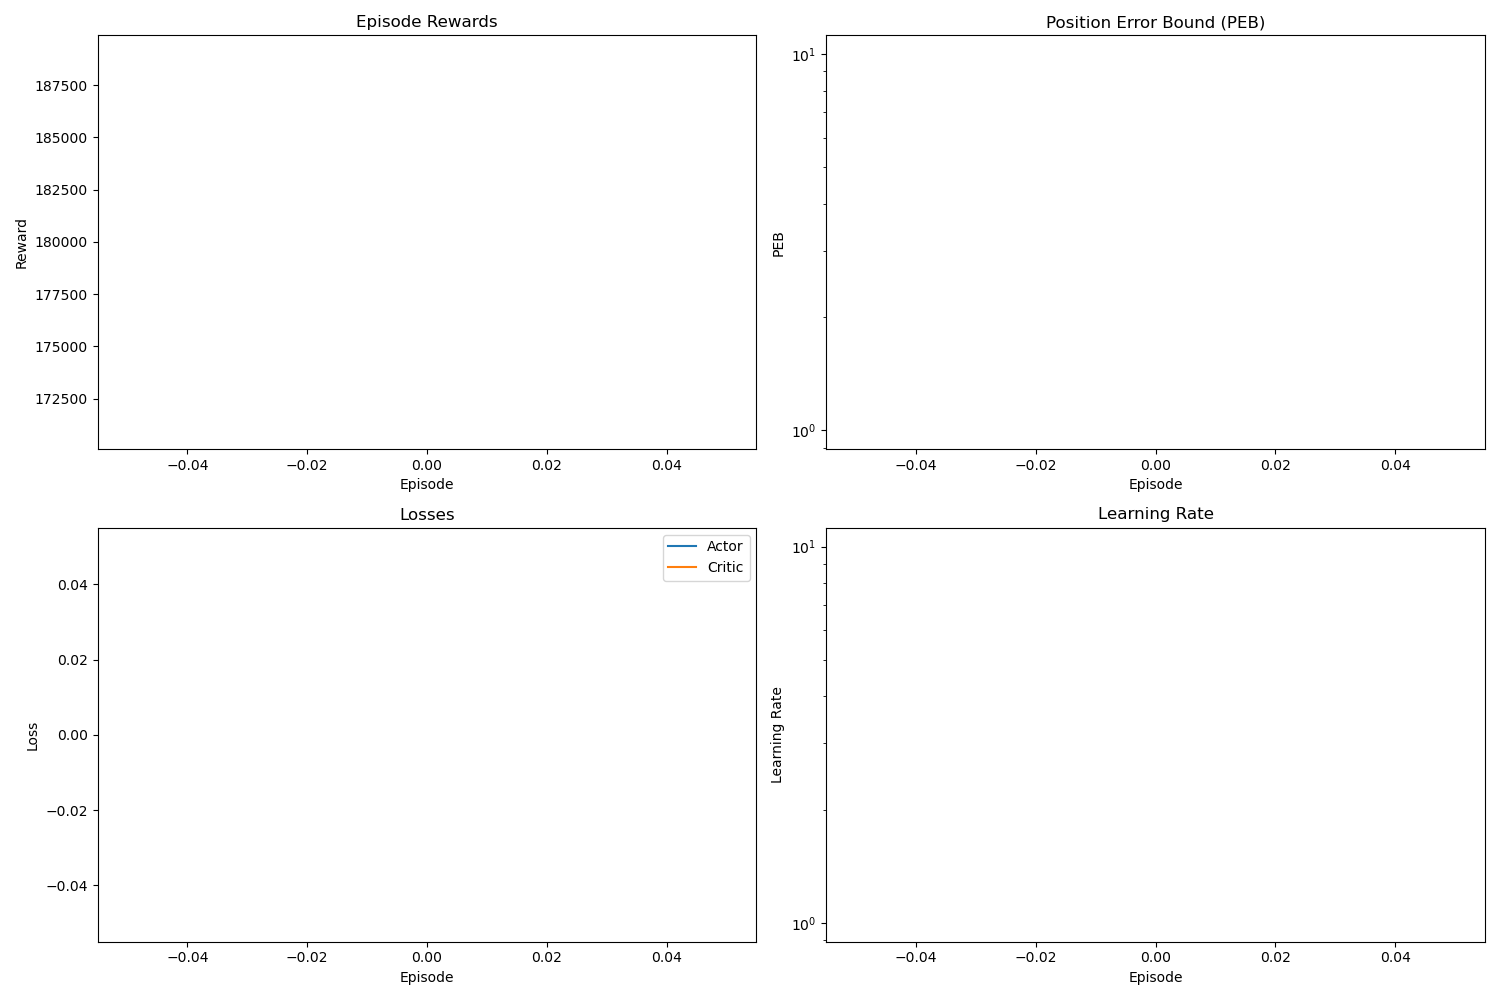
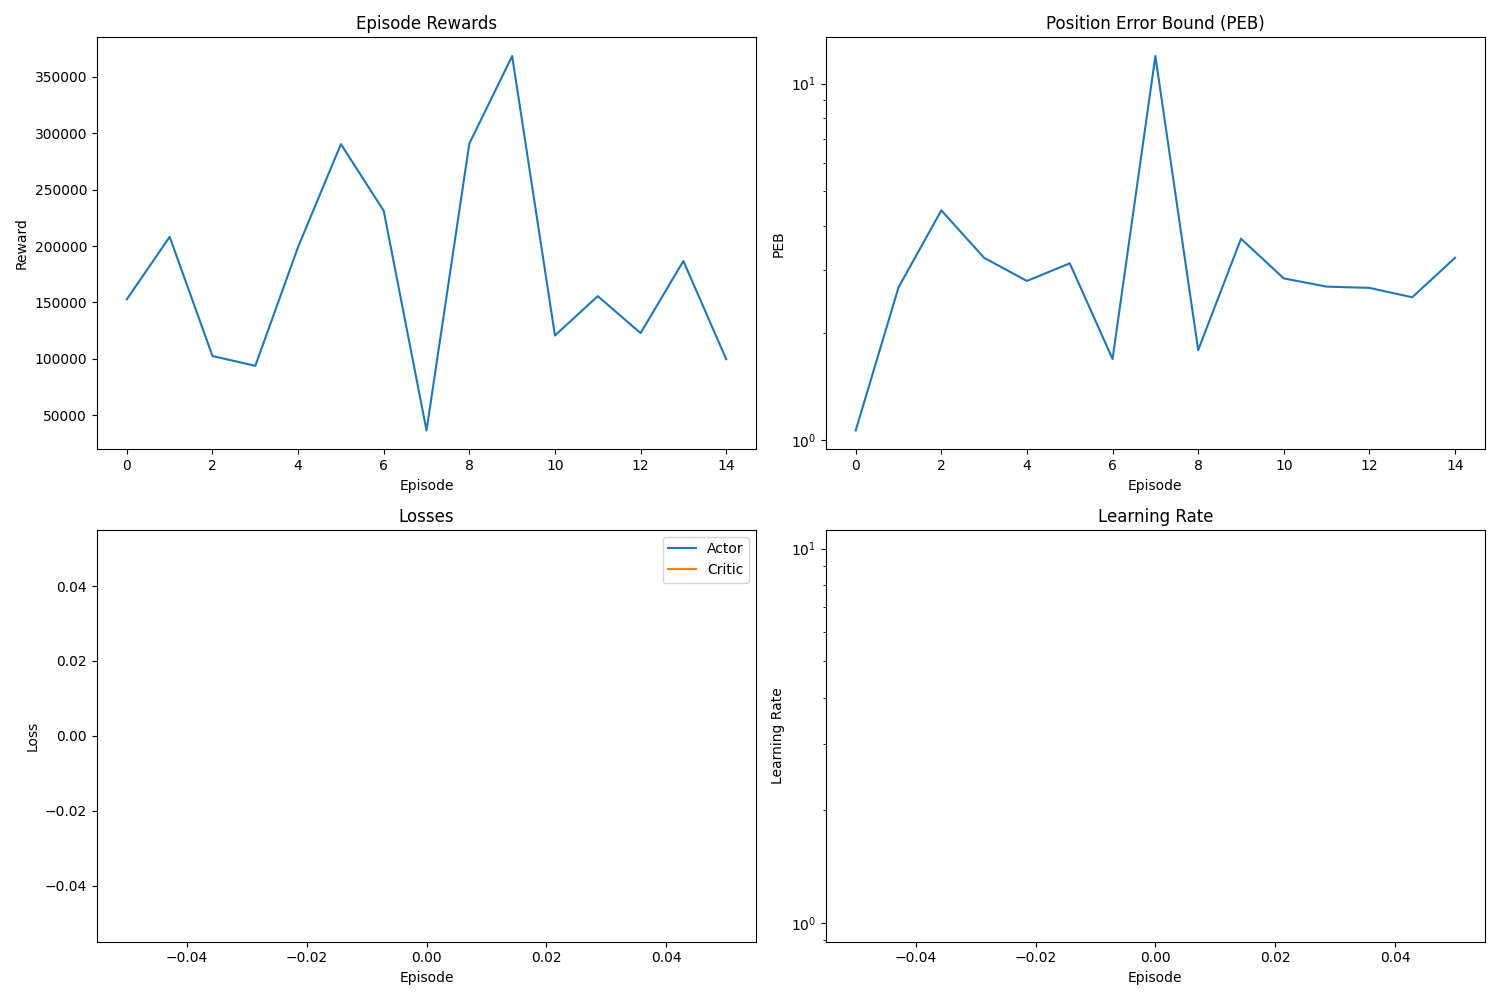
update

diff --git a/train_ris_isac.py b/train_ris_isac.py
@@ -28,33 +28,33 @@ class RISISACTrainer:
         print(f"Initializing FLDDPG with state_dim={state_dim}, action_dim={action_dim}")
         
         # Initialize DDPG agent with improved parameters
-        # self.agent = FLDDPG(
-        #     state_dim=state_dim,
-        #     action_dim=action_dim,
-        #     hidden_dims=[400, 300],
-        #     buffer_size=10000,  # 𝒟 = 10000
-        #     batch_size=16,  # 𝑇ₘₐₓ = 16
-        #     gamma=0.95,  # γ_b = 0.95
-        #     tau=0.00001,  # τ_tc and τ_ta = 0.00001
-        #     actor_lr=0.001,  # μ_ta = 0.001
-        #     critic_lr=0.001,  # μ_tc = 0.001
-        #     lr_decay_rate=0.00001,  # λ_tc and λ_ta = 0.00001
-        #     min_lr=1e-6,  # Not explicitly in the table, but might be useful
-        # )
-        
-        self.agent = DDPGagent(
-            num_states= state_dim,
-            num_actions= action_dim,
-            hidden_size_1= 400,
-            hidden_size_2= 300,
-            max_memory_size= 10000,
-            disc_fact= 0.95,
-            tau= 0.00001,
-            actor_learning_rate= 0.001,
-            critic_learning_rate= 0.001,
-            lr_decay= 0.00001,
-            min_lr= 1e-6
+        self.agent = FLDDPG(
+            state_dim=state_dim,
+            action_dim=action_dim,
+            hidden_dims=[512, 256],
+            buffer_size=10000,  # 𝒟 = 10000
+            batch_size=16,  # 𝑇ₘₐₓ = 16
+            gamma=0.95,  # γ_b = 0.95
+            tau=0.00001,  # τ_tc and τ_ta = 0.00001
+            actor_lr=0.001,  # μ_ta = 0.001
+            critic_lr=0.001,  # μ_tc = 0.001
+            lr_decay_rate=0.00001,  # λ_tc and λ_ta = 0.00001
+            min_lr=1e-6,  # Not explicitly in the table, but might be useful
         )
+        
+        # self.agent = DDPGagent(
+        #     num_states= state_dim,
+        #     num_actions= action_dim,
+        #     hidden_size_1= 400,
+        #     hidden_size_2= 300,
+        #     max_memory_size= 10000,
+        #     disc_fact= 0.95,
+        #     tau= 0.00001,
+        #     actor_learning_rate= 0.001,
+        #     critic_learning_rate= 0.001,
+        #     lr_decay= 0.00001,
+        #     min_lr= 1e-6
+        # )
 
         
         # Initialize metrics tracking
@@ -159,6 +159,9 @@ class RISISACTrainer:
         rate_values = [[] for _ in range(300)]
         power_values = [[] for _ in range(300)]
         avg_power = []
+        exp = 0
+        unexp = 0
+        exp_unexp_ration = []
         for episode in range(num_episodes):
             episode_start_time = time.time()
             # Reset environment
@@ -176,8 +179,8 @@ class RISISACTrainer:
             # Initialize episode precoder
             step_counter = 0
 
-            # if(episode!=0):
-            #     self.agent.decay_learning_rates()
+            if(episode!=0):
+                self.agent.decay_learning_rates()
 
             
             for step in range(max_steps):
@@ -185,8 +188,10 @@ class RISISACTrainer:
                 value = np.random.uniform(0,1)
                 if (value < epsilon_start):
                     explore = True
+                    exp+=1
                 else:
                     explore = False
+                    unexp+=1
                 # explore = False
 
                 step_counter = step_counter + 1
@@ -214,8 +219,8 @@ class RISISACTrainer:
                 done = bool(done)
                 
                 # Store transition and update networks
-                self.agent.replay_buffer.push(state, action, reward, next_state)
-                actor_loss, critic_loss = self.agent.update(16)
+                self.agent.replay_buffer.push(state, action, reward, next_state, done)
+                actor_loss, critic_loss = self.agent.update()
                 
                 # Track step metrics
                 episode_reward += reward
@@ -238,7 +243,8 @@ class RISISACTrainer:
             last_peb_in_episode = current_peb
             avg_rate = np.mean(rate_values[episode])
             avg_power = np.mean(power_values[episode])
-            
+            exp_unexp_ration.append(exp/unexp)
+
             # Normalize reward
             episode_reward = episode_reward/step_counter
 
@@ -252,7 +258,8 @@ class RISISACTrainer:
                     'avg_peb_values': [],
                     'last_peb_values': [],
                     'avg_rate': [],
-                    'avg_power': []
+                    'avg_power': [],
+                    'exp_unexp_ratio': []
                 })
             
             self.metrics['initial_peb_values'].append(initial_peb)
@@ -263,12 +270,12 @@ class RISISACTrainer:
             self.metrics['episode_rewards'].append(episode_reward)
             self.metrics['avg_rate'].append(avg_rate)
             self.metrics['avg_power'].append(avg_power)
-
+            self.metrics['exp_unexp_ratio'].append(exp/unexp)
             self.metrics['peb_values'].append(current_peb)  # For backward compatibility
             if episode_losses['actor']:
                 self.metrics['actor_losses'].append(np.mean(episode_losses['actor']))
                 self.metrics['critic_losses'].append(np.mean(episode_losses['critic']))
-            # self.metrics['learning_rates'].append(self.agent.current_actor_lr)
+            self.metrics['learning_rates'].append(self.agent.current_actor_lr)
             
             # Update best metrics and save checkpoints
             if episode_reward > self.best_metrics['reward']:
@@ -293,7 +300,7 @@ class RISISACTrainer:
                 print(f"Avg PEB: {avg_peb_in_episode:.6f}")
                 print(f"Last PEB: {last_peb_in_episode:.6f}")
                 print(f"Best PEB (all episodes): {self.best_metrics['peb']:.6f}")
-                # print(f"Learning Rate: {self.agent.get_current_actor_lr():.12f}")
+                print(f"Learning Rate: {self.agent.get_current_actor_lr():.12f}")
                 print(f"Buffer Size: {len(self.agent.replay_buffer)}")
                 print("-" * 50)
             
@@ -408,12 +415,12 @@ if __name__ == "__main__":
     plt.grid(True)
     plt.savefig(os.path.join(plt_folder,'power_per_episode'))
 
-    # plt.figure(figsize=(10,5))
-    # plt.plot(episodes, metrics['best_peb'])
-    # plt.title('Best PEB per episode')
-    # plt.xlabel('Episode')
-    # plt.ylabel('PEB')
-    # plt.grid(True)
-    # plt.savefig(os.path.join(plt_folder,'best_peb_per_episode'))
-    # plt.show()
+    plt.figure(figsize=(10,5))
+    plt.plot(episodes, metrics['exp_unexp_ratio'])
+    plt.title('exp and exploit ratio')
+    plt.xlabel('Episode')
+    plt.ylabel('ratio')
+    plt.grid(True)
+    plt.savefig(os.path.join(plt_folder,'exp_exploit_ratio'))
+    plt.show()
     trainer.close()

diff --git a/RISISAC_V2X_Sim.m b/RISISAC_V2X_Sim.m
@@ -128,7 +128,7 @@ classdef RISISAC_V2X_Sim < handle
             obj.initializeChannels();
             obj.initializephi();
             obj.calculate_pathloss();
-            obj.destination = [randi([0, 1000]), randi([0, 1000]), 0];
+            % obj.destination = [randi([0, 1000]), randi([0, 1000]), 0];
             obj.initializeVisualization();
             % obj.destination = [999, 999, 0];
             [H_Los,H_Los_3d] = generate_H_Los(obj, obj.H_bt, obj.Nt, obj.Nb);
@@ -761,9 +761,6 @@ classdef RISISAC_V2X_Sim < handle
             obj.initializeChannels();
             obj.initializephi();
             obj.calculate_pathloss();
-            % obj.destination = [randi([0, 1000]), randi([0, 1000]), 0];
-            % obj.initializeVisualization();
-            % obj.destination = [999, 999, 0];
             [H_Los, H_Los_3d] = generate_H_Los(obj, obj.H_bt, obj.Nt, obj.Nb);
             [H_NLos, H_NLos_3d] = generate_H_NLoS(obj, obj.H_rt, obj.H_br, obj.Nt, obj.Nr, obj.Nb, obj.phi);
             obj.H_combined = obj.compute_Heff(H_Los, H_NLos);
@@ -772,9 +769,6 @@ classdef RISISAC_V2X_Sim < handle
             obj.gamma_c = obj.computeSNR();
             obj.rate = obj.getrate();
             obj.peb = obj.calculatePerformanceMetrics(obj.Wx, H_Los_3d, H_NLos_3d);
-            % obj.calculated_values();
-            % obj.destination = [randi([0, 1000]), randi([0, 1000]), 0];
-
             obj.car_loc = obj.starting_pos;
             obj.target_loc = obj.car_loc;
             obj.time = 0;
